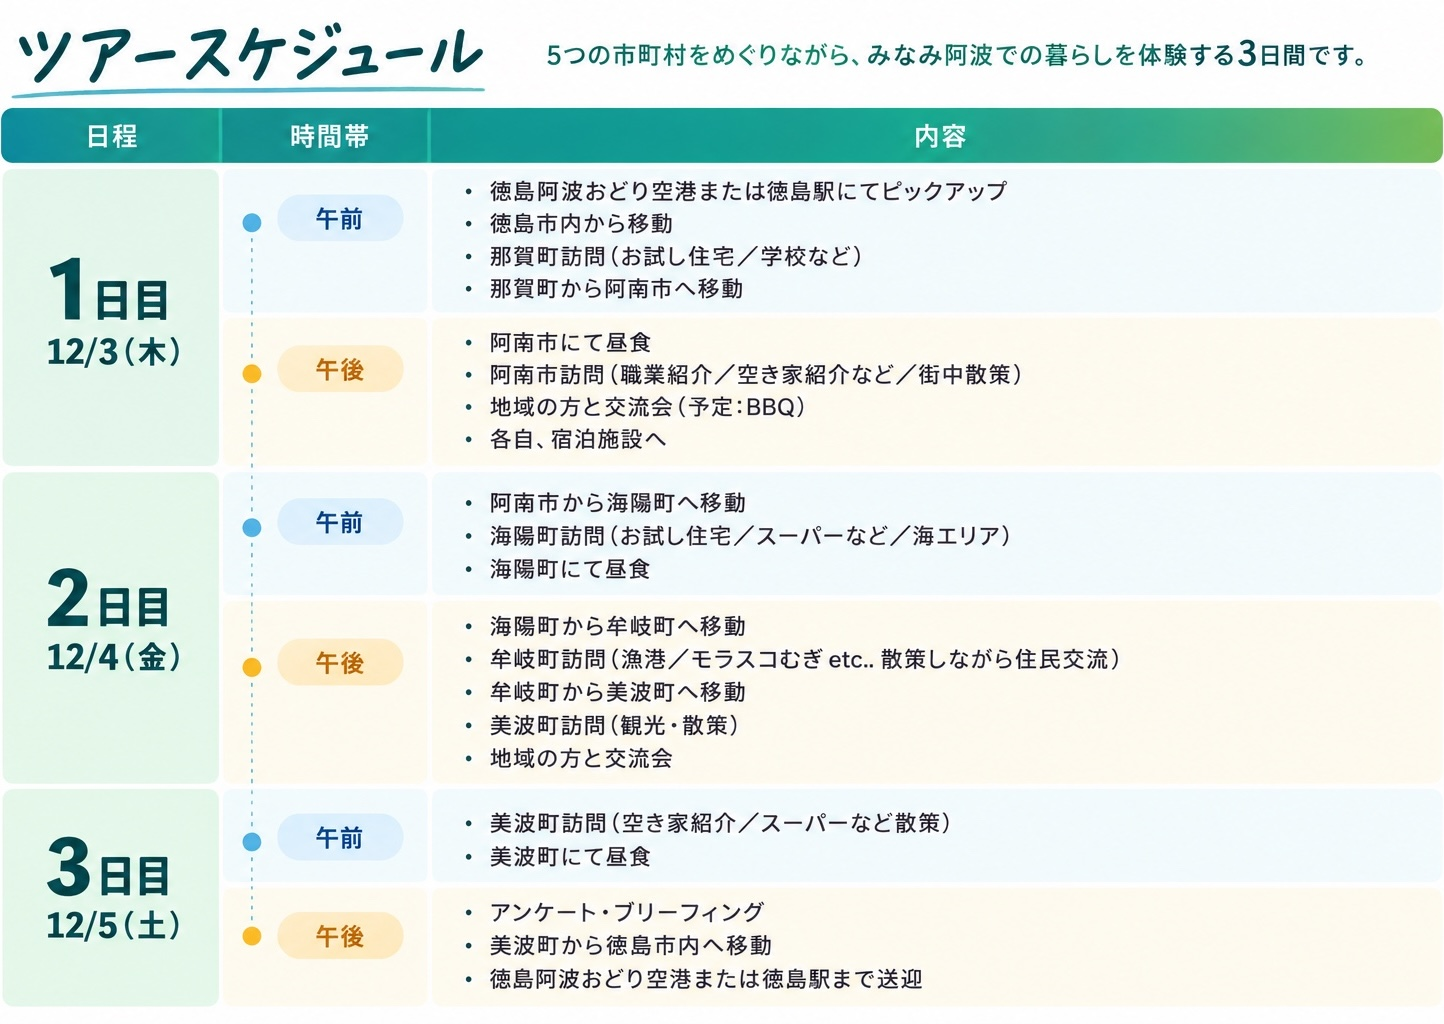
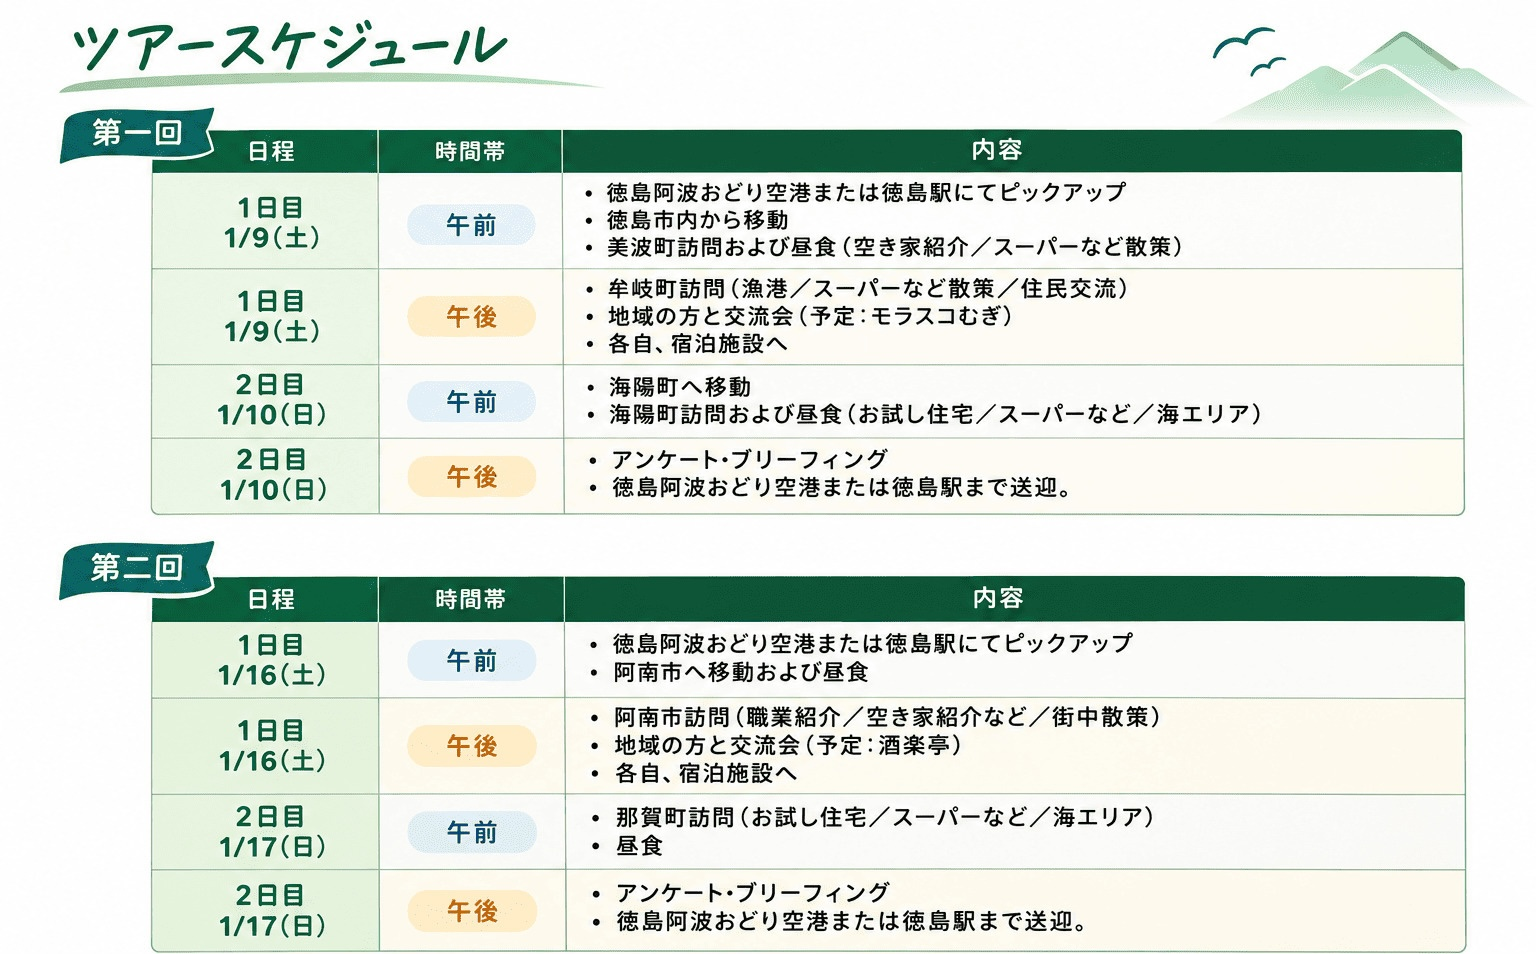
開催日等変更

diff --git a/index.html b/index.html
@@ -48,19 +48,19 @@
       <dl class="hero__info">
         <div class="hero__info-row">
           <dt>開催日</dt>
-          <dd>2026年12月3日(木)<br class="sp-only">〜12月5日(土)</dd>
+          <dd>
+            第一回：1月9日（土）～1月10日（日）<br>
+            第二回：1月16日（土）～1月17日（日）<br>
+            <span>※募集締め切り：12月20日（日）</span>
+          </dd>
         </div>
         <div class="hero__info-row">
           <dt>参加費</dt>
           <dd>無料<span>（現地集合・現地解散）</span></dd>
         </div>
-        <div class="hero__info-row">
-          <dt>締切日</dt>
-          <dd>2026年11月3日(火・祝)</dd>
-        </div>
       </dl>
 
-      <a href="https://drive.google.com/file/d/11f7Fa9scl093HGRkUR9L59nq4gwFKiP6/view?usp=sharing" class="btn-gradient hero__btn" target="_blank" rel="noopener noreferrer">募集要項を見る&nbsp;→</a>
+      <a href="https://drive.google.com/file/d/1Ao2mfY7Uiob-_beLe0TMABCgzO8cuPet/view?usp=sharing" class="btn-gradient hero__btn" target="_blank" rel="noopener noreferrer">募集要項を見る&nbsp;→</a>
     </div>
 
     <div class="hero__badge" data-reveal="zoom">
@@ -224,7 +224,7 @@
     <img src="img/nalp42.jpg" alt="ツアースケジュール：12/3（木）〜12/5（土）の3日間で、那賀町・阿南市・海陽町・牟岐町・美波町をめぐります">
   </picture>
 
-  <a href="https://drive.google.com/file/d/11f7Fa9scl093HGRkUR9L59nq4gwFKiP6/view?usp=sharing" class="banner" data-reveal="up" target="_blank" rel="noopener noreferrer">
+  <a href="https://drive.google.com/file/d/1Ao2mfY7Uiob-_beLe0TMABCgzO8cuPet/view?usp=sharing" class="banner" data-reveal="up" target="_blank" rel="noopener noreferrer">
     <div class="banner__bg"><img src="img/nalp17.jpg" alt=""></div>
     <div class="banner__body">
       <h3 class="banner__title"><img class="banner__icon" src="img/nalp32.png" alt="">募集要項を見る</h3>
@@ -332,7 +332,7 @@
 
   <ul class="entry__list" data-reveal-group>
     <li class="entry__item">
-      <a href="https://drive.google.com/file/d/11f7Fa9scl093HGRkUR9L59nq4gwFKiP6/view?usp=sharing" class="entry-card" target="_blank" rel="noopener noreferrer">
+      <a href="https://drive.google.com/file/d/1Ao2mfY7Uiob-_beLe0TMABCgzO8cuPet/view?usp=sharing" class="entry-card" target="_blank" rel="noopener noreferrer">
         <div class="entry-card__bg"><img src="img/nalp14.jpeg" alt=""></div>
         <div class="entry-card__body">
           <img class="entry-card__icon" src="img/nalp32.png" alt="">

diff --git a/css/style.css b/css/style.css
@@ -320,14 +320,17 @@ body {
 .hero__info { margin-top: 3.4rem; }
 .hero__info-row {
   display: flex;
-  align-items: center;
+  align-items: start;
+  gap: 1.5rem;
   margin-bottom: 1rem;
+}
+.hero__info-row:nth-child(2) {
+  align-items: center;
 }
 .hero__info-row dt {
   flex: none;
   width: 9.2rem;
   padding: .8rem 0;
-  margin-right: 1.5rem;
   background: var(--navy);
   color: #fff;
   text-align: center;
@@ -341,6 +344,9 @@ body {
   font-size: 2.1rem;
   font-weight: bold;
   letter-spacing: .06em;
+}
+.hero__info-row:nth-child(1) dd span {
+  font-size: 1.4rem;
 }
 .hero__info-row:nth-child(2) dd{
   font-size: 2.3rem;
@@ -1344,11 +1350,12 @@ body {
   .hero__desc { margin-top: 2.4rem; font-size: 1.2rem; width: 19.3rem; }
   .hero__desc br { display: none; }
   .hero__info { margin-top: 3rem; }
-  .hero__info-row { flex-wrap: wrap; margin-bottom: .7rem; align-items: start; }
-  .hero__info-row:nth-child(n+2) { align-items: center; }
+  .hero__info-row { gap: .8rem; flex-direction: column; margin-bottom: 1.6rem; }
+  .hero__info-row:nth-child(n+2) { align-items: start; }
   .hero__info-row:last-child { margin-bottom: 0; }
-  .hero__info-row dt { width: 6.5rem; padding: .6rem 0; margin-right: 1.1rem; font-size: 1.1rem; }
-  .hero__info-row dd { font-size: 1.4rem; }
+  .hero__info-row dt { width: 6.5rem; padding: .6rem 0; font-size: 1.1rem; }
+  .hero__info-row dd { font-size: 1.4rem; padding-left: .8rem; }
+  .hero__info-row:nth-child(1) dd span { font-size: 1.2rem; }
   .hero__info-row:nth-child(2) dd { font-size: 1.6rem; }
   .hero__info-row:nth-child(2) dd span { font-size: 1.3rem; }
   .hero__btn { margin-top: 2.2rem; height: 4rem; padding: 0 2.9rem; font-size: 1.3rem; }
